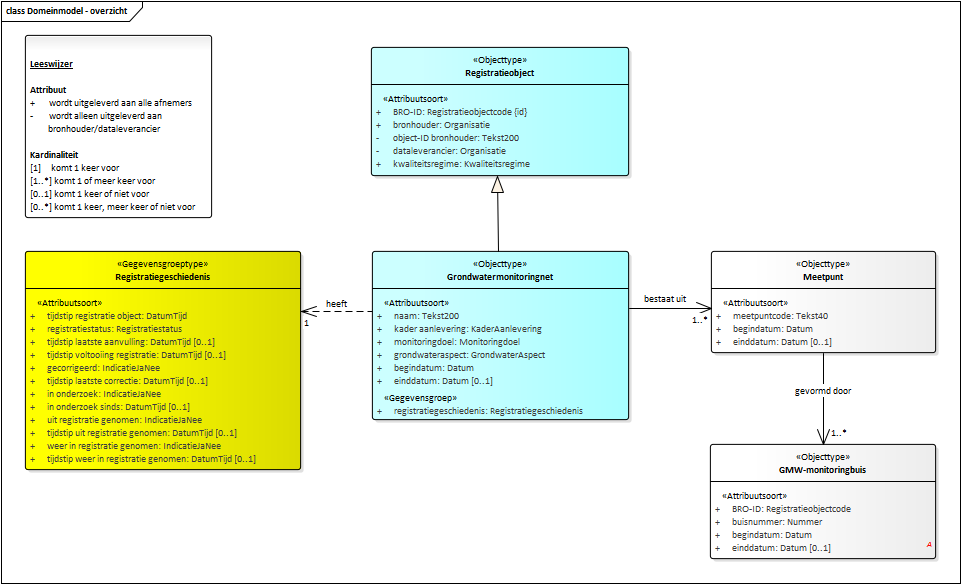
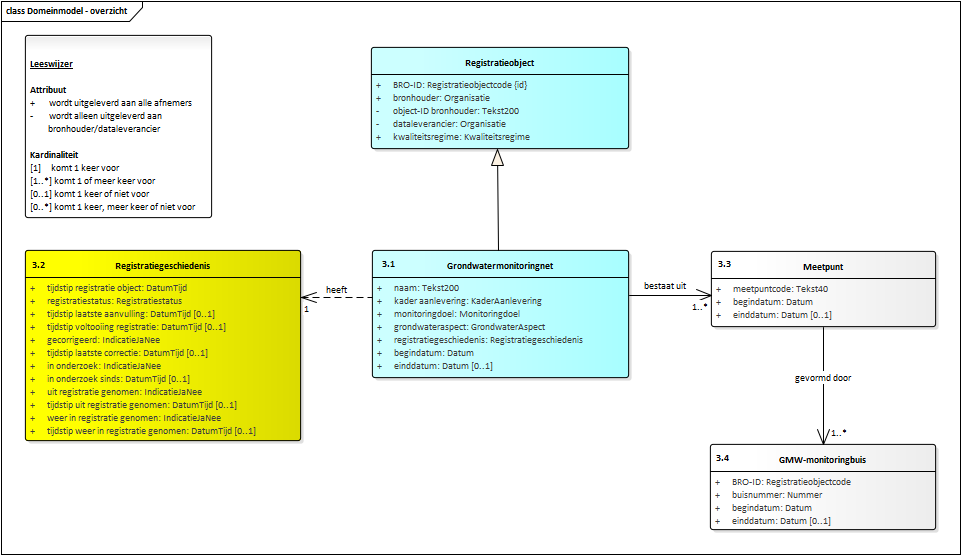
Conceptualmodel-GrondwatermonitoringnetGMN-0.9.1-2-20190328-20190827-090400

diff --git a/data/GMN-cat.html b/data/GMN-cat.html
@@ -1,15 +1,15 @@
 <section id="cat" class="normative" level="1">
    <h2>Gegevensdefinitie</h2>
    <p><b>Deze tekst is normatief.</b>
-      <!--Conceptualmodel-GrondwatermonitoringnetGMN-0.9.1-2-20190328-20190826-104851 imvertor 1.53.4--></p>
+      <!--Conceptualmodel-GrondwatermonitoringnetGMN-0.9.1-2-20190328-20190827-090400 imvertor 1.53.4--></p>
    <section id="" level="3">
       <h3>Het domeinmodel </h3>
       <div class="imageinfo overview"><img src="data/Images/EAID_16A72207_068F_4cb7_8848_6A51D3D09C6C.png" usemap="#imagemap-EAID_16A72207_068F_4cb7_8848_6A51D3D09C6C"><map name="imagemap-EAID_16A72207_068F_4cb7_8848_6A51D3D09C6C">
-            <area shape="rect" coords="711,353,936,251" alt="" href="#graph_EAID_FD4CB41D_3FA7_46c9_81A9_44C8869F16A6">
-            <area shape="rect" coords="710,559,936,444" alt="" href="#graph_EAID_397885A2_C288_4430_A585_494C8A658C32">
-            <area shape="rect" coords="25,470,301,251" alt="" href="#graph_EAID_BD3993BF_6865_40e4_96F8_64C29C82F35A">
-            <area shape="rect" coords="371,176,629,47" alt="" href="#graph_EAID_AF36F25F_EDC0_4e99_A937_DF9E6889C6F0">
-            <area shape="rect" coords="372,420,629,251" alt="" href="#graph_EAID_A35817A4_9167_4620_BB25_5933C44F44E1"></map><p><b>Domeinmodel - overzicht</b></p>
+            <area shape="rect" coords="711,327,936,251" alt="" href="#graph_EAID_FD4CB41D_3FA7_46c9_81A9_44C8869F16A6">
+            <area shape="rect" coords="710,530,936,444" alt="" href="#graph_EAID_397885A2_C288_4430_A585_494C8A658C32">
+            <area shape="rect" coords="25,441,301,250" alt="" href="#graph_EAID_BD3993BF_6865_40e4_96F8_64C29C82F35A">
+            <area shape="rect" coords="371,149,629,47" alt="" href="#graph_EAID_AF36F25F_EDC0_4e99_A937_DF9E6889C6F0">
+            <area shape="rect" coords="372,378,629,250" alt="" href="#graph_EAID_A35817A4_9167_4620_BB25_5933C44F44E1"></map><p><b>Domeinmodel - overzicht</b></p>
       </div>
    </section><a class="anchor" name="graph_EAID_AF36F25F_EDC0_4e99_A937_DF9E6889C6F0"></a><a class="anchor" name="global_class_BROGMN_Registratieobject"></a><section id="global_class_BROGMN_Registratieobject" level="3">
       <h3> Registratieobject</h3>
@@ -720,14 +720,6 @@
                      <td>1-1-1800 tot heden</td>
                   </tr>
                   <tr>
-                     <th>Regels IMBRO/A</th>
-                     <td>
-                        
-                        <p xmlns="http://www.w3.org/1999/xhtml" xmlns:html="http://www.w3.org/1999/xhtml" xmlns:imvert="http://www.imvertor.org/schema/system">Domein IMBRO/A: OnvolledigeDatum</p>
-                        
-                     </td>
-                  </tr>
-                  <tr>
                      <th>Materiële geschiedenis</th>
                      <td>Nee</td>
                   </tr>
@@ -789,7 +781,7 @@
                      <th>Regels</th>
                      <td>
                         
-                        <p xmlns="http://www.w3.org/1999/xhtml" xmlns:html="http://www.w3.org/1999/xhtml" xmlns:imvert="http://www.imvertor.org/schema/system">De einddatum ligt na de begindatum van het grondwatermonitoringnet.</p>
+                        <p xmlns="http://www.w3.org/1999/xhtml" xmlns:html="http://www.w3.org/1999/xhtml" xmlns:imvert="http://www.imvertor.org/schema/system">De waarde van het attribuut moet liggen na de begindatum van het grondwatermonitoringnet.</p>
                         
                      </td>
                   </tr>
@@ -797,9 +789,7 @@
                      <th>Regels IMBRO/A</th>
                      <td>
                         
-                        <p xmlns="http://www.w3.org/1999/xhtml" xmlns:html="http://www.w3.org/1999/xhtml" xmlns:imvert="http://www.imvertor.org/schema/system">Onder kwaliteitsregime IMBRO/A is dit gegeven altijd aanwezig.
-                           Domein IMBRO/A: OnvolledigeDatum.
-                        </p>
+                        <p xmlns="http://www.w3.org/1999/xhtml" xmlns:html="http://www.w3.org/1999/xhtml" xmlns:imvert="http://www.imvertor.org/schema/system">Het attribuut moet aanwezig zijn onder kwaliteitsregime IMBRO/A.</p>
                         
                      </td>
                   </tr>
@@ -1067,7 +1057,7 @@
                      <th>Regels</th>
                      <td>
                         
-                        <p xmlns="http://www.w3.org/1999/xhtml" xmlns:html="http://www.w3.org/1999/xhtml" xmlns:imvert="http://www.imvertor.org/schema/system">Het gegeven is alleen aanwezig wanneer de <em>registratiestatus</em>de waarde <em>voltooid</em>heeft. 
+                        <p xmlns="http://www.w3.org/1999/xhtml" xmlns:html="http://www.w3.org/1999/xhtml" xmlns:imvert="http://www.imvertor.org/schema/system">De tijdstip voltooiing registratie moet aanwezig zijn wanneer de <em>registratiestatus</em>de waarde <em>voltooid</em>heeft. 
                         </p>
                         
                      </td>
@@ -1195,8 +1185,7 @@
                      <th>Regels</th>
                      <td>
                         
-                        <p xmlns="http://www.w3.org/1999/xhtml" xmlns:html="http://www.w3.org/1999/xhtml" xmlns:imvert="http://www.imvertor.org/schema/system">Het al dan niet aanwezig zijn van het gegeven wordt bepaald door de waarde van het
-                           attribuut <em>gecorrigeerd</em>. 
+                        <p xmlns="http://www.w3.org/1999/xhtml" xmlns:html="http://www.w3.org/1999/xhtml" xmlns:imvert="http://www.imvertor.org/schema/system">Het attribuut moet aanwezig zijn als de waarde van het attribuut <em>gecorrigeerd</em> gelijk is aan <em>ja</em>. 
                         </p>
                         
                      </td>
@@ -1325,8 +1314,7 @@
                      <th>Regels</th>
                      <td>
                         
-                        <p xmlns="http://www.w3.org/1999/xhtml" xmlns:html="http://www.w3.org/1999/xhtml" xmlns:imvert="http://www.imvertor.org/schema/system">Het al dan niet aanwezig zijn van het gegeven wordt bepaald door de waarde van het
-                           attribuut <em>in onderzoek</em>.
+                        <p xmlns="http://www.w3.org/1999/xhtml" xmlns:html="http://www.w3.org/1999/xhtml" xmlns:imvert="http://www.imvertor.org/schema/system">Het attribuut moet aanwezig zijn als de waarde van het attribuut <em>in onderzoek</em>gelijk is aan <em>ja</em>. 
                         </p>
                         
                      </td>
@@ -1455,8 +1443,7 @@
                      <th>Regels</th>
                      <td>
                         
-                        <p xmlns="http://www.w3.org/1999/xhtml" xmlns:html="http://www.w3.org/1999/xhtml" xmlns:imvert="http://www.imvertor.org/schema/system">Het al dan niet aanwezig zijn van het gegeven wordt bepaald door de waarde van het
-                           attribuut <em>uit registratie genomen</em>. 
+                        <p xmlns="http://www.w3.org/1999/xhtml" xmlns:html="http://www.w3.org/1999/xhtml" xmlns:imvert="http://www.imvertor.org/schema/system">Het attribuut moet aanwezig zijn als de waarde van het attribuut <em>uit registratie genomen</em>gelijk is aan <em>ja</em>. 
                         </p>
                         
                      </td>
@@ -1584,8 +1571,7 @@
                      <th>Regels</th>
                      <td>
                         
-                        <p xmlns="http://www.w3.org/1999/xhtml" xmlns:html="http://www.w3.org/1999/xhtml" xmlns:imvert="http://www.imvertor.org/schema/system">Het al dan niet aanwezig zijn van het gegeven wordt bepaald door de waarde van het
-                           attribuut <em>weer in registratie genomen</em>. 
+                        <p xmlns="http://www.w3.org/1999/xhtml" xmlns:html="http://www.w3.org/1999/xhtml" xmlns:imvert="http://www.imvertor.org/schema/system">Het attribuut moet aanwezig zijn als de waarde van het attribuut <em>weer in registratie genomen</em>gelijk is aan <em>ja</em>. 
                         </p>
                         
                      </td>
@@ -1684,7 +1670,7 @@
                      <th>Regels</th>
                      <td>
                         
-                        <p xmlns="http://www.w3.org/1999/xhtml" xmlns:html="http://www.w3.org/1999/xhtml" xmlns:imvert="http://www.imvertor.org/schema/system">De code is uniek binnen het grondwatermonitoringnet.</p>
+                        <p xmlns="http://www.w3.org/1999/xhtml" xmlns:html="http://www.w3.org/1999/xhtml" xmlns:imvert="http://www.imvertor.org/schema/system">De waarde van het attribuut moet uniek zijn binnen het grondwatermonitoringnet.</p>
                         
                      </td>
                   </tr>
@@ -1752,15 +1738,7 @@
                      <th>Regels</th>
                      <td>
                         
-                        <p xmlns="http://www.w3.org/1999/xhtml" xmlns:html="http://www.w3.org/1999/xhtml" xmlns:imvert="http://www.imvertor.org/schema/system">De begindatum van het meetpunt ligt niet voor de begindatum van het grondwatermonitoringnet.</p>
-                        
-                     </td>
-                  </tr>
-                  <tr>
-                     <th>Regels IMBRO/A</th>
-                     <td>
-                        
-                        <p xmlns="http://www.w3.org/1999/xhtml" xmlns:html="http://www.w3.org/1999/xhtml" xmlns:imvert="http://www.imvertor.org/schema/system">Domein IMBRO/A: OnvolledigeDatum.</p>
+                        <p xmlns="http://www.w3.org/1999/xhtml" xmlns:html="http://www.w3.org/1999/xhtml" xmlns:imvert="http://www.imvertor.org/schema/system">De waarde van het attribuut mag niet liggen voor de begindatum van het grondwatermonitoringnet.</p>
                         
                      </td>
                   </tr>
@@ -1817,6 +1795,10 @@
                      <td>Datum</td>
                   </tr>
                   <tr>
+                     <th>&nbsp;&nbsp;Naam IMBRO/A</th>
+                     <td>OnvolledigeDatum</td>
+                  </tr>
+                  <tr>
                      <th>&nbsp;&nbsp;Waardebereik</th>
                      <td>1-1-1800 tot heden</td>
                   </tr>
@@ -1824,9 +1806,9 @@
                      <th>Regels</th>
                      <td>
                         
-                        <p xmlns="http://www.w3.org/1999/xhtml" xmlns:html="http://www.w3.org/1999/xhtml" xmlns:imvert="http://www.imvertor.org/schema/system">De einddatum van het meetpunt ligt na de begindatum van het meetpunt.
-                           De einddatum van het meetpunt ligt niet na de einddatum van het grondwatermonitoringnet.
-                        </p>
+                        <p xmlns="http://www.w3.org/1999/xhtml" xmlns:html="http://www.w3.org/1999/xhtml" xmlns:imvert="http://www.imvertor.org/schema/system">De einddatum van het meetpunt moet liggen na de begindatum van het meetpunt.</p>
+                        
+                        <p xmlns="http://www.w3.org/1999/xhtml" xmlns:html="http://www.w3.org/1999/xhtml" xmlns:imvert="http://www.imvertor.org/schema/system">De einddatum van het meetpunt mag niet liggen na de einddatum van het grondwatermonitoringnet.</p>
                         
                      </td>
                   </tr>
@@ -1834,9 +1816,7 @@
                      <th>Regels IMBRO/A</th>
                      <td>
                         
-                        <p xmlns="http://www.w3.org/1999/xhtml" xmlns:html="http://www.w3.org/1999/xhtml" xmlns:imvert="http://www.imvertor.org/schema/system">Onder kwaliteitsregime IMBRO/A is dit gegeven altijd aanwezig.
-                           Domein IMBRO/A: OnvolledigeDatum.
-                        </p>
+                        <p xmlns="http://www.w3.org/1999/xhtml" xmlns:html="http://www.w3.org/1999/xhtml" xmlns:imvert="http://www.imvertor.org/schema/system">Onder kwaliteitsregime IMBRO/A is dit gegeven altijd aanwezig.</p>
                         
                      </td>
                   </tr>
@@ -1890,8 +1870,8 @@
                   <td>
                      
                      <p xmlns="http://www.w3.org/1999/xhtml" xmlns:html="http://www.w3.org/1999/xhtml" xmlns:imvert="http://www.imvertor.org/schema/system">De periodes van begindatum tot eindatum van GMW-monitoringbuizen bij een meetpunt
-                        overlappen elkaar niet. De periodes mogen wel direct aansluiten, waarbij de begindatum
-                        van een GMW-monitoringbuis gelijk is aan de einddatum van een andere GMW-monitoringbuis.
+                        mogen elkaar niet overlappen. De periodes mogen wel direct aansluiten, waarbij de
+                        begindatum van een GMW-monitoringbuis gelijk is aan de einddatum van een andere GMW-monitoringbuis.
                      </p>
                      
                   </td>
@@ -2077,15 +2057,9 @@
                      <th>Regels</th>
                      <td>
                         
-                        <p xmlns="http://www.w3.org/1999/xhtml" xmlns:html="http://www.w3.org/1999/xhtml" xmlns:imvert="http://www.imvertor.org/schema/system">De begindatum van de GMW-monitoringbuis ligt niet voor de begindatum van het meetpunt.</p>
-                        
-                     </td>
-                  </tr>
-                  <tr>
-                     <th>Regels IMBRO/A</th>
-                     <td>
-                        
-                        <p xmlns="http://www.w3.org/1999/xhtml" xmlns:html="http://www.w3.org/1999/xhtml" xmlns:imvert="http://www.imvertor.org/schema/system">Domein IMBRO/A: OnvolledigeDatum.</p>
+                        <p xmlns="http://www.w3.org/1999/xhtml" xmlns:html="http://www.w3.org/1999/xhtml" xmlns:imvert="http://www.imvertor.org/schema/system">De begindatum van de GMW-monitoringbuis mag niet liggen voor de begindatum van het
+                           meetpunt.
+                        </p>
                         
                      </td>
                   </tr>
@@ -2142,6 +2116,10 @@
                      <td>Datum</td>
                   </tr>
                   <tr>
+                     <th>&nbsp;&nbsp;Naam IMBRO/A</th>
+                     <td>OnvolledigeDatum</td>
+                  </tr>
+                  <tr>
                      <th>&nbsp;&nbsp;Waardebereik</th>
                      <td>1-1-1800 tot heden</td>
                   </tr>
@@ -2149,9 +2127,9 @@
                      <th>Regels</th>
                      <td>
                         
-                        <p xmlns="http://www.w3.org/1999/xhtml" xmlns:html="http://www.w3.org/1999/xhtml" xmlns:imvert="http://www.imvertor.org/schema/system">De einddatum van de GMW-monitoringbuis ligt na de begindatum van de GMW-monitoringbuis.
-                           De einddatum van de GMW-monitoringbuis ligt niet na de einddatum van het meetpunt.
-                        </p>
+                        <p xmlns="http://www.w3.org/1999/xhtml" xmlns:html="http://www.w3.org/1999/xhtml" xmlns:imvert="http://www.imvertor.org/schema/system">De einddatum van de GMW-monitoringbuis moet liggen na de begindatum van de GMW-monitoringbuis.</p>
+                        
+                        <p xmlns="http://www.w3.org/1999/xhtml" xmlns:html="http://www.w3.org/1999/xhtml" xmlns:imvert="http://www.imvertor.org/schema/system">De einddatum van de GMW-monitoringbuis mag niet liggen na de einddatum van het meetpunt.</p>
                         
                      </td>
                   </tr>
@@ -2159,9 +2137,7 @@
                      <th>Regels IMBRO/A</th>
                      <td>
                         
-                        <p xmlns="http://www.w3.org/1999/xhtml" xmlns:html="http://www.w3.org/1999/xhtml" xmlns:imvert="http://www.imvertor.org/schema/system">Onder kwaliteitsregime IMBRO/A is dit gegeven altijd aanwezig.
-                           Domein IMBRO/A: OnvolledigeDatum.
-                        </p>
+                        <p xmlns="http://www.w3.org/1999/xhtml" xmlns:html="http://www.w3.org/1999/xhtml" xmlns:imvert="http://www.imvertor.org/schema/system">Onder kwaliteitsregime IMBRO/A moet dit attribuut altijd aanwezig zijn.</p>
                         
                      </td>
                   </tr>
@@ -2731,7 +2707,9 @@
                   <td>Definitie</td>
                   <td>
                      
-                     <p xmlns="http://www.w3.org/1999/xhtml" xmlns:html="http://www.w3.org/1999/xhtml" xmlns:imvert="http://www.imvertor.org/schema/system">De actuele fase van registratie waarin het registratieobject zich bevindt.</p>
+                     <p xmlns="http://www.w3.org/1999/xhtml" xmlns:html="http://www.w3.org/1999/xhtml" xmlns:imvert="http://www.imvertor.org/schema/system">De lijst met de  actuele fasen van registratie waarin het registratieobject zich kan
+                        bevinden.
+                     </p>
                      
                   </td>
                </tr>
